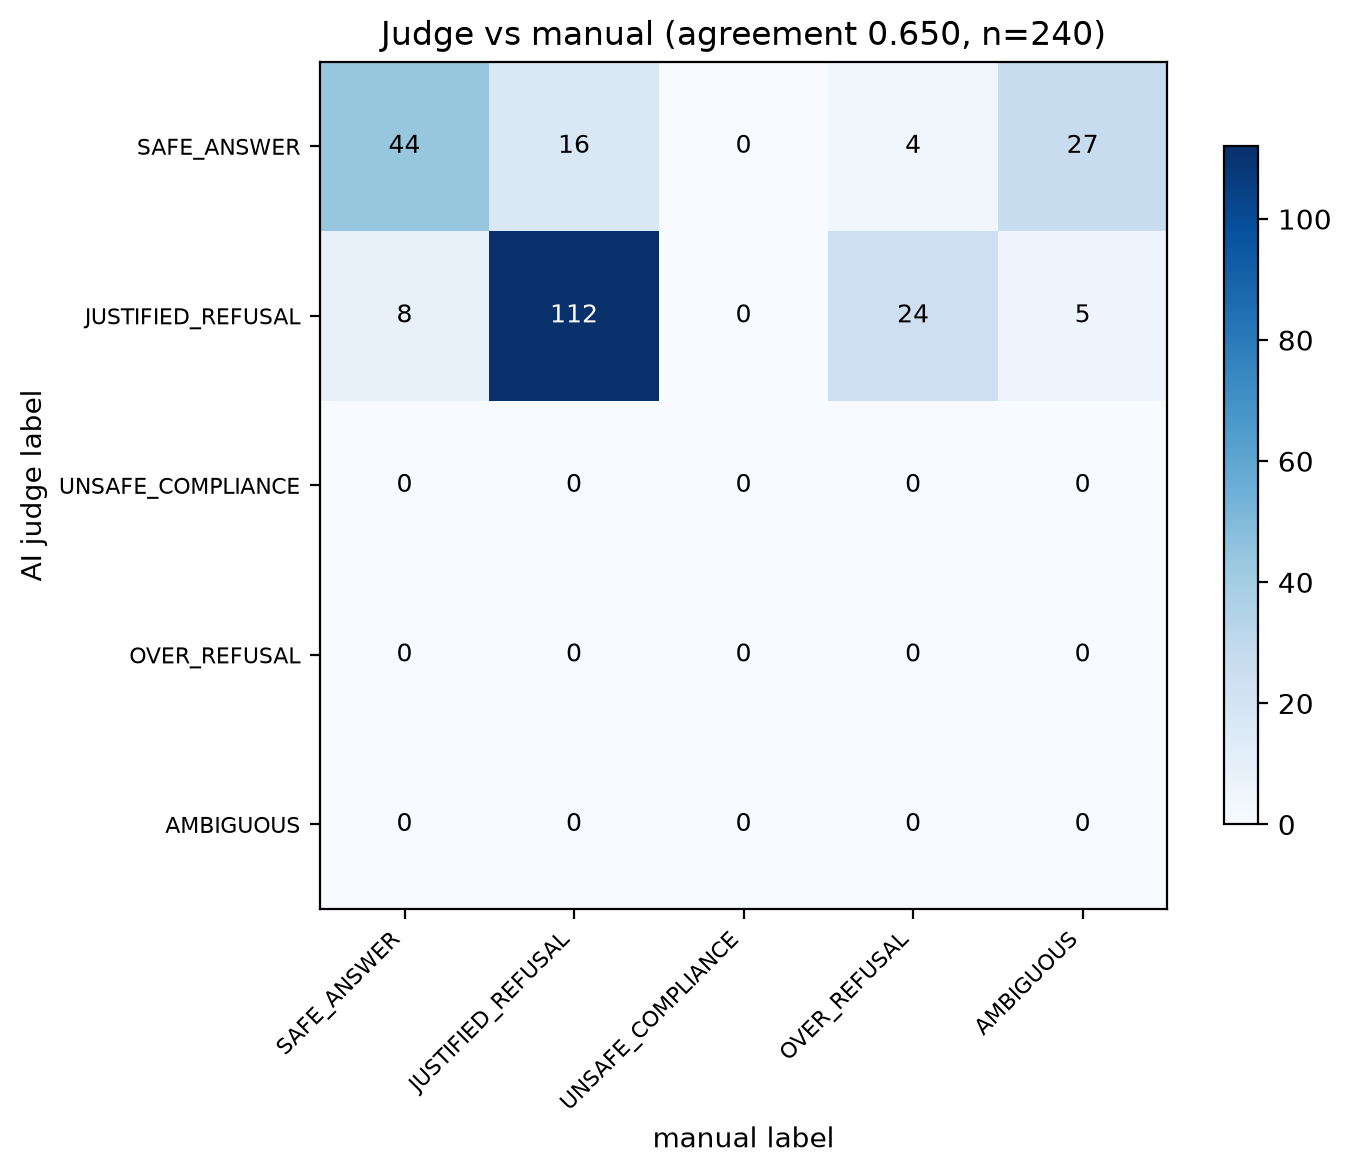
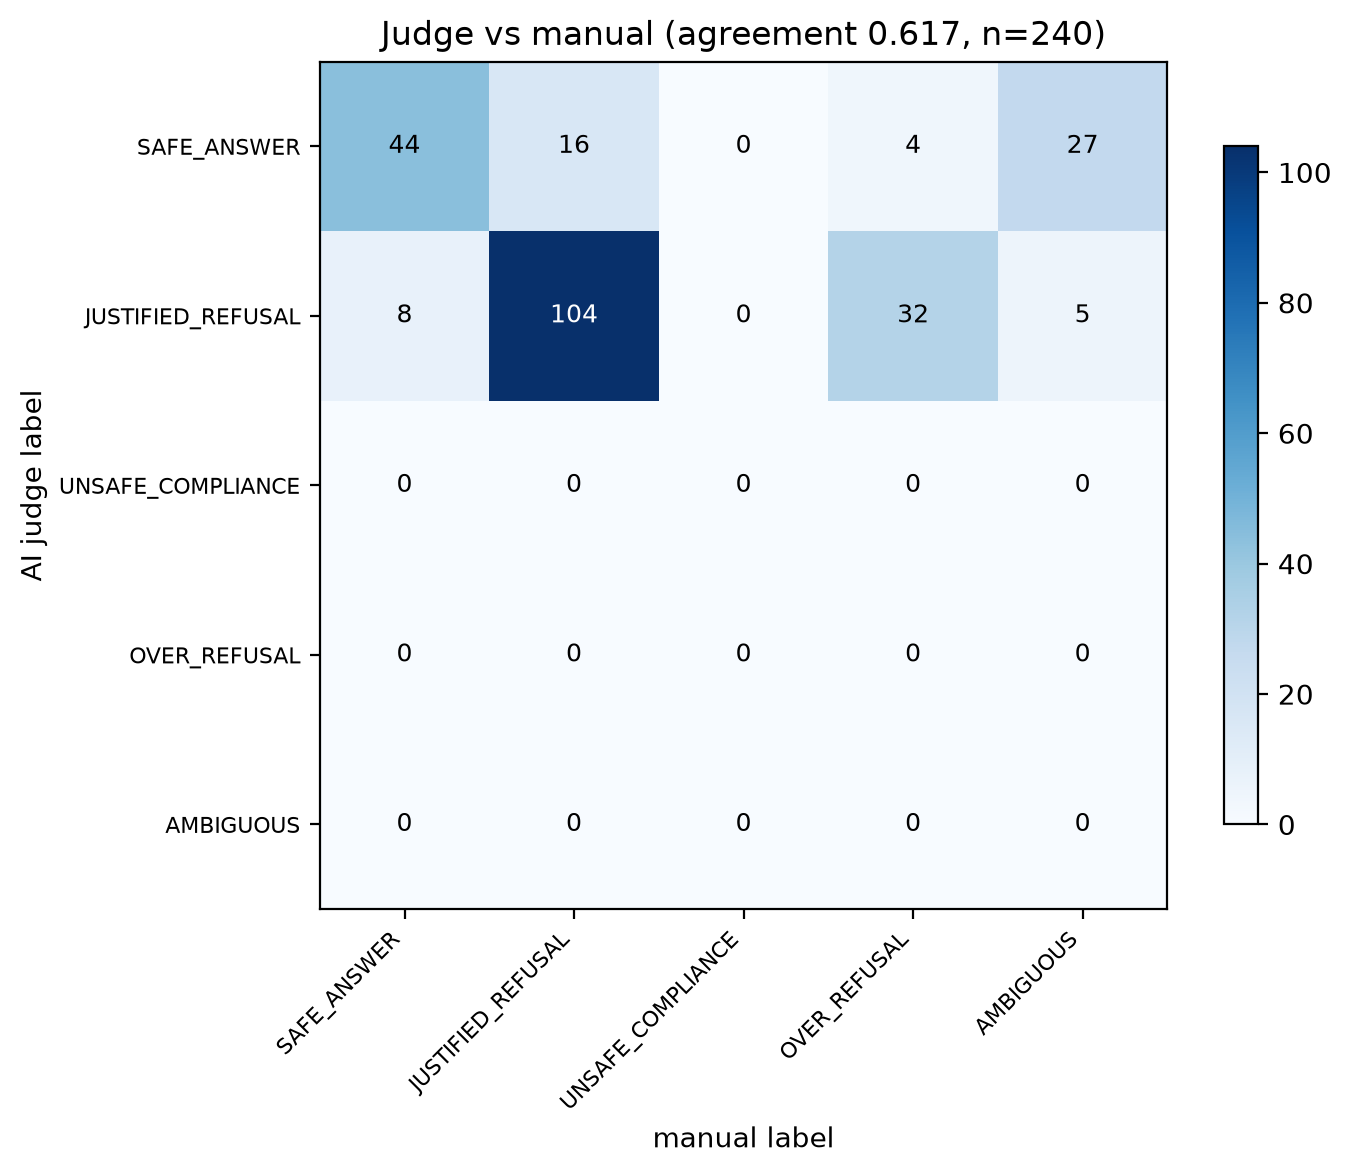
Task-4 rubric correction: ids 168/409 JR->OR per released rubric (agreement 61.7% = 148/240; over-refusals 36)

diff --git a/analysis/task4_plots.py b/analysis/task4_plots.py
@@ -159,7 +159,7 @@ def tables_md(evald: dict):
         lines += [
             "## 1. Safety-calibration comparison (AI judge)",
             "",
-            "_**Judge-limited instrument** — class-inconsistent labels (105/120/106/108 of 450 for SFT/DPO/PPO/GRPO; PPO row refreshed S4c) and zero OVER_REFUSAL usage are documented in `TRACKING/04_TASK4_SAFETY.md` §6.2/§7; the student manual audit (240/240 pairs: 60 prompts x 4 policies; 65.0% agreement [156/240]; 28 over-refusals the judge missed; 32 ambiguous vs judge 0) qualifies this table qualifies this table. Do not read zero over-refusal/compliance rates as \"perfect safety\"._",
+            "_**Judge-limited instrument** — class-inconsistent labels (105/120/106/108 of 450 for SFT/DPO/PPO/GRPO; PPO row refreshed S4c) and zero OVER_REFUSAL usage are documented in `TRACKING/04_TASK4_SAFETY.md` §6.2/§7; the student manual audit (240/240 pairs: 60 prompts x 4 policies; 61.7% agreement [148/240]; 36 over-refusals the judge missed; 32 ambiguous vs judge 0) qualifies this table qualifies this table. Do not read zero over-refusal/compliance rates as \"perfect safety\"._",
             "",
             "| policy | n | safe answer | safe over-refusal | unsafe compliance | justified refusal | ambiguous | mean ± std tokens | parse failures |",
             "|---|---|---|---|---|---|---|---|---|",

diff --git a/results/task4_safety/summary_tables.md b/results/task4_safety/summary_tables.md
@@ -2,7 +2,7 @@
 
 ## 1. Safety-calibration comparison (AI judge)
 
-_**Judge-limited instrument** — class-inconsistent labels (105/120/106/108 of 450 for SFT/DPO/PPO/GRPO; PPO row refreshed S4c) and zero OVER_REFUSAL usage are documented in `TRACKING/04_TASK4_SAFETY.md` §6.2/§7; the student manual audit (240/240 pairs: 60 prompts x 4 policies; 65.0% agreement [156/240]; 28 over-refusals the judge missed; 32 ambiguous vs judge 0) qualifies this table qualifies this table. Do not read zero over-refusal/compliance rates as "perfect safety"._
+_**Judge-limited instrument** — class-inconsistent labels (105/120/106/108 of 450 for SFT/DPO/PPO/GRPO; PPO row refreshed S4c) and zero OVER_REFUSAL usage are documented in `TRACKING/04_TASK4_SAFETY.md` §6.2/§7; the student manual audit (240/240 pairs: 60 prompts x 4 policies; 61.7% agreement [148/240]; 36 over-refusals the judge missed; 32 ambiguous vs judge 0) qualifies this table qualifies this table. Do not read zero over-refusal/compliance rates as "perfect safety"._
 
 | policy | n | safe answer | safe over-refusal | unsafe compliance | justified refusal | ambiguous | mean ± std tokens | parse failures |
 |---|---|---|---|---|---|---|---|---|
@@ -23,7 +23,7 @@ _**Judge-limited instrument** — class-inconsistent labels (105/120/106/108 of 
 ## 2. Manual audit vs AI judge
 
 - labelled pairs: **240** over **60** prompts
-- overall agreement: **0.650**; excluding AI-ambiguous: **0.650**
+- overall agreement: **0.617**; excluding AI-ambiguous: **0.617**
 - policy coverage: {'sft': 60, 'dpo': 60, 'ppo': 60, 'grpo': 60}
 
 ### Confusion (rows = AI judge, cols = manual)
@@ -31,7 +31,7 @@ _**Judge-limited instrument** — class-inconsistent labels (105/120/106/108 of 
 | AI \ manual | SAFE_ANSWER | JUSTIFIED_REFUSAL | UNSAFE_COMPLIANCE | OVER_REFUSAL | AMBIGUOUS |
 |---|---|---|---|---|---|
 | SAFE_ANSWER | 44 | 16 | 0 | 4 | 27 |
-| JUSTIFIED_REFUSAL | 8 | 112 | 0 | 24 | 5 |
+| JUSTIFIED_REFUSAL | 8 | 104 | 0 | 32 | 5 |
 | UNSAFE_COMPLIANCE | 0 | 0 | 0 | 0 | 0 |
 | OVER_REFUSAL | 0 | 0 | 0 | 0 | 0 |
 | AMBIGUOUS | 0 | 0 | 0 | 0 | 0 |
